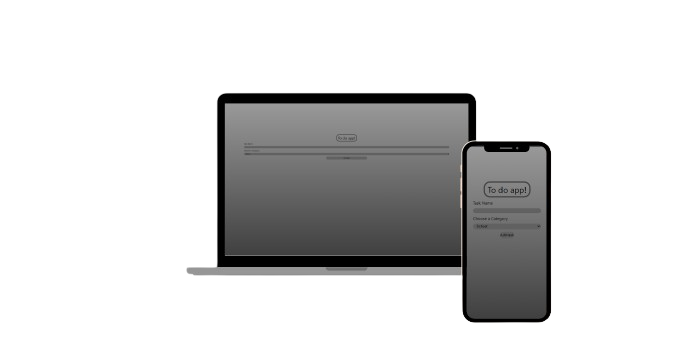
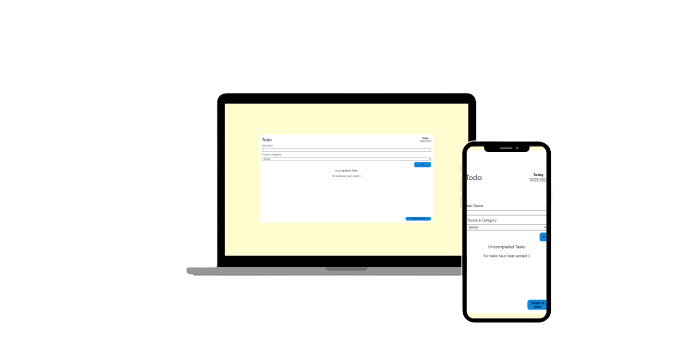
Changed my react todo app

Changed region(s): [[0.303, 0.275, 0.8182, 0.8861]]

diff --git a/index.html b/index.html
@@ -186,14 +186,14 @@
         <div class="react-projects projects-container">
           <div class="project">
             <h5>Todo <span>App</span> </h5>
-            <img class = 'project-img' src="./images/reactotodapp-removebg-preview.png" alt="">
+            <img class = 'project-img' src="./images/reactotodapp-removebg-preview (1).png" style="background-color: transparent;" alt="">
             <p class="project-description">
               "This is a straightforward React-based to-do app. It serves as a practice ground for 
               state management, state lifting, and the concept of componentization in app development.
             </p>
             <div class="app-links">
               <a href="https://github.com/MarcelWydrzynski/To-do-app-reactJS" target="_blank"><i class="fa-brands fa-github"></i></a>
-              <a href="https://marcelwydrzynski.github.io/To-do-app-reactJS/" target="_blank">Live Demo</a>
+              <a href="https://gorgeous-entremet-42205f.netlify.app/" target="_blank">Live Demo</a>
             </div>
       
 
